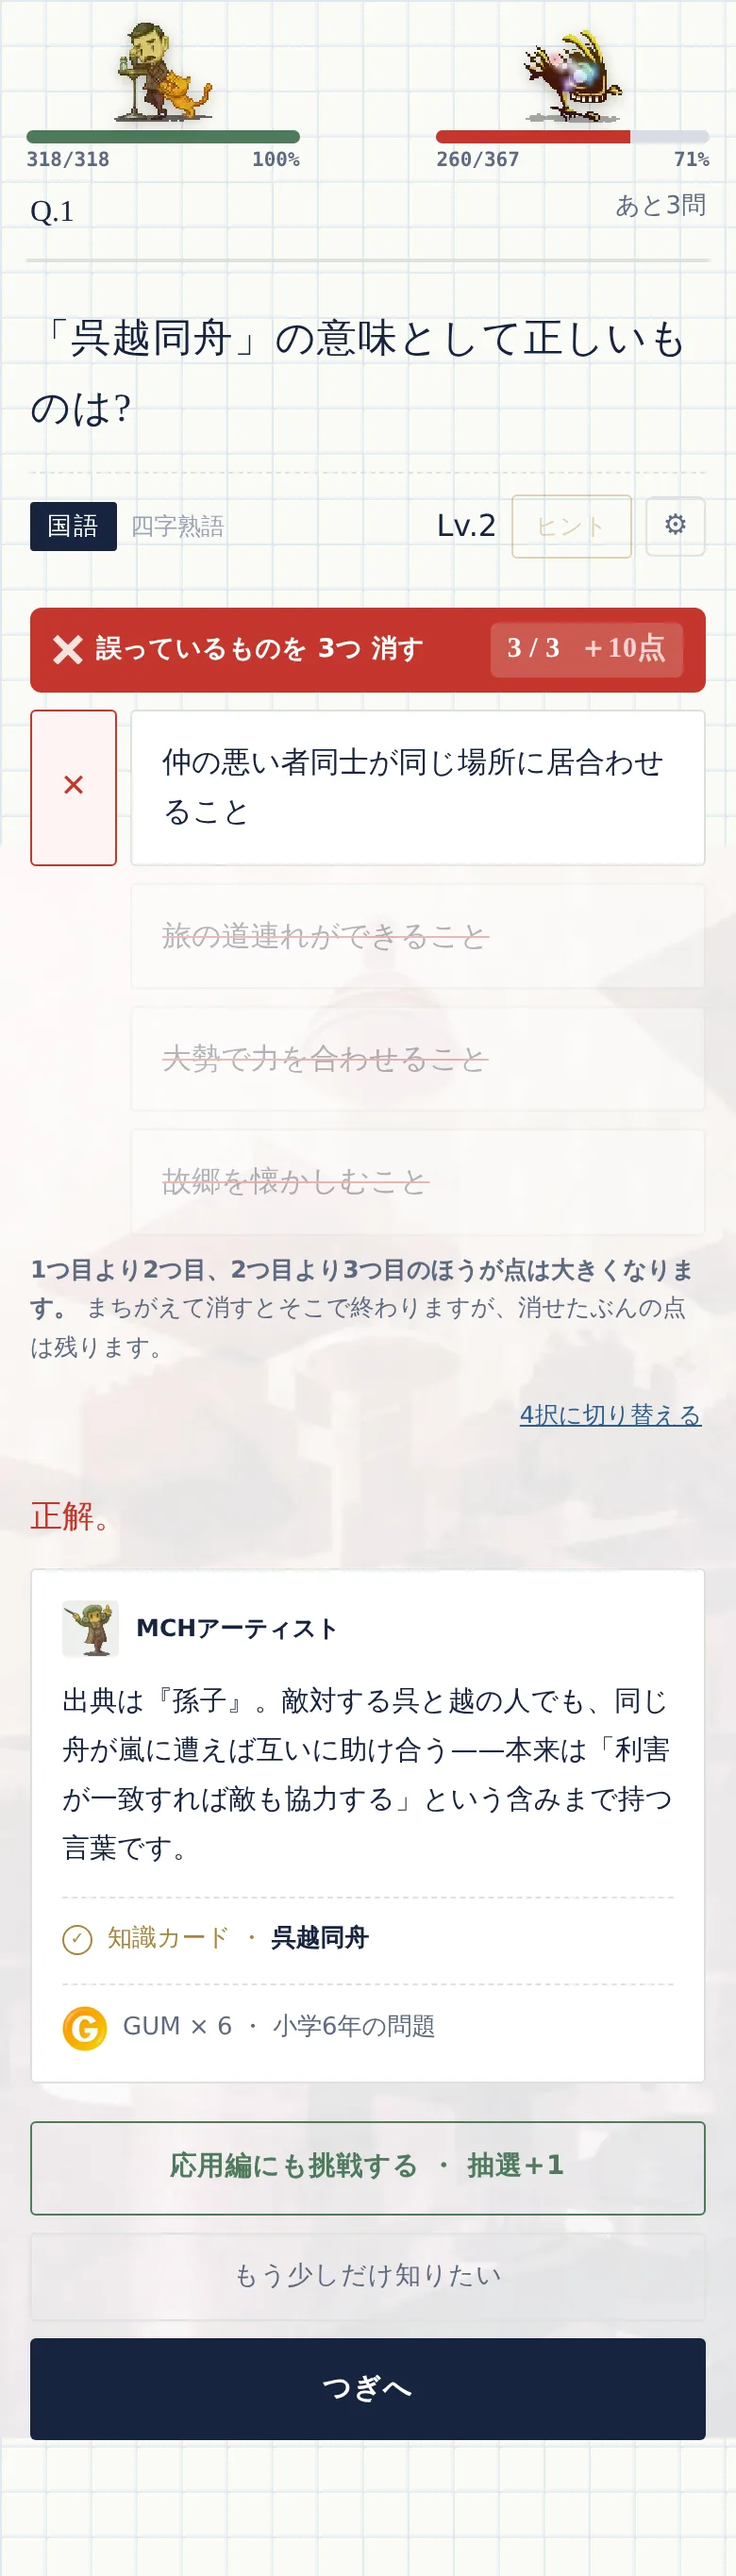
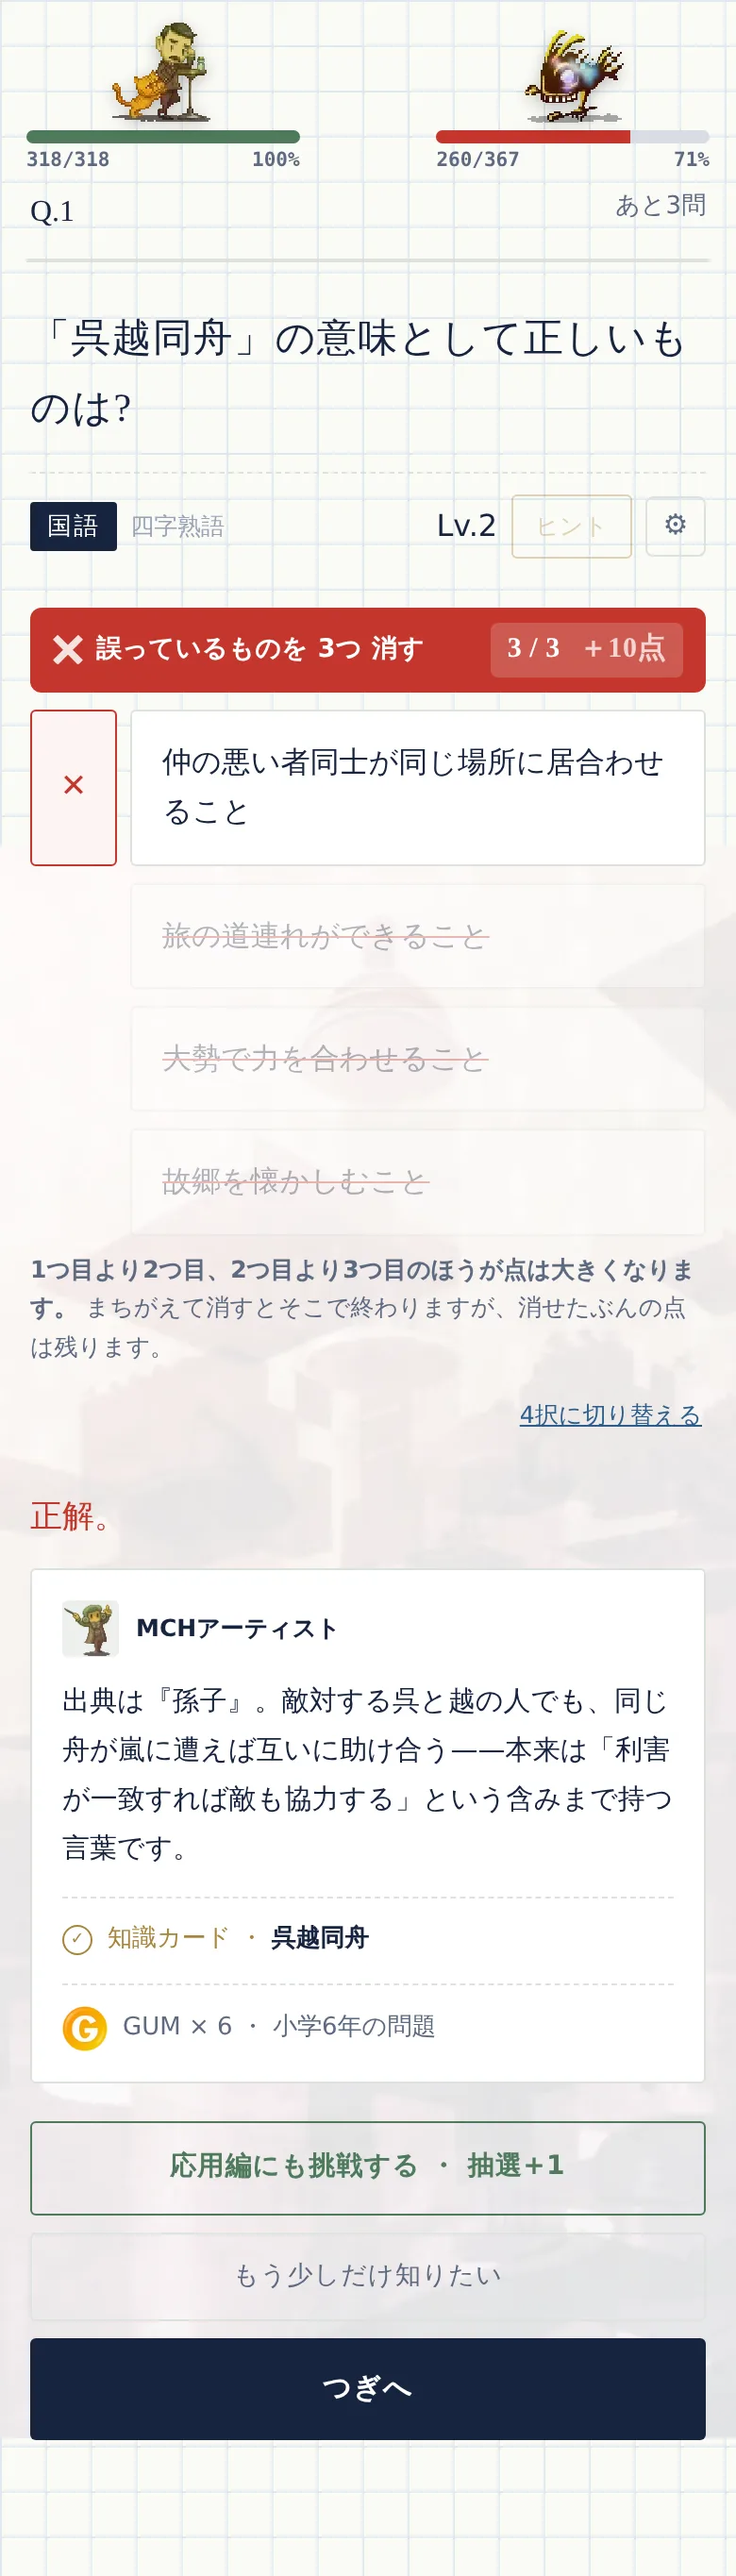
バトル層の英雄と敵を向かい合わせる
MCH の絵は英雄も敵も左を向いているので、並べると2体とも同じほうを見て
いました。左に立つ英雄のほうを左右反転させて、正面から向き合うように
しました（敵を反転させると外を向きます）。

跳ねる演出と倒れる姿勢にも反転を入れてあります。transform は最後に書いた
ものだけが効くので、コマごとに scaleX(-1) を書き直しています。

validate ✓ / smoke 450 ✓ / touch-check 25 ✓

Claude-Session: https://claude.ai/code/session_01HQarYNyuWkC6NYJVcfcKzq

Changed region(s): [[0.7077, 0.0, 0.8615, 0.0623], [0.1538, 0.0, 0.2769, 0.0623]]

diff --git a/src/styles.css b/src/styles.css
@@ -956,16 +956,23 @@
   .bt-side{position:relative;flex:0 0 40%;display:flex;flex-direction:column;align-items:center;gap:3px}
   .bt-ch{width:56px;height:56px;image-rendering:pixelated;
     filter:drop-shadow(0 2px 4px rgba(0,0,0,.25));transition:transform .18s}
-  .bt-side.foe .bt-ch{transform:scaleX(-1)}
-  /* 当たったら、その側が一度だけ跳ねる */
+  /* **2体は向かい合わせます。** 英雄は左、敵は右に立ちます。MCH の絵は
+     どちらも**左を向いている**ので、そのまま並べると2体とも同じほうを
+     見ます。左に立つ英雄のほうを左右反転させると、正面から向き合います。
+     **反転するのは英雄側です**——敵を反転させると外を向きます */
+  .bt-side.hero .bt-ch{transform:scaleX(-1)}
+  /* 当たったら、その側が一度だけ跳ねる。**反転は跳ねているあいだも保ちます**
+     （`transform` は最後に書いたものだけが効くので、コマごとに書き直します） */
   .bt-side.hit .bt-ch{animation:btHit .34s ease-out}
   @keyframes btHit{0%{transform:translateX(0)}30%{transform:translateX(-7px)}
     60%{transform:translateX(5px)}100%{transform:translateX(0)}}
-  .bt-side.foe.hit .bt-ch{animation:btHitF .34s ease-out}
-  @keyframes btHitF{0%{transform:scaleX(-1) translateX(0)}30%{transform:scaleX(-1) translateX(-7px)}
+  .bt-side.hero.hit .bt-ch{animation:btHitM .34s ease-out}
+  @keyframes btHitM{0%{transform:scaleX(-1) translateX(0)}30%{transform:scaleX(-1) translateX(-7px)}
     60%{transform:scaleX(-1) translateX(5px)}100%{transform:scaleX(-1) translateX(0)}}
   /* 倒れているあいだは、灰色にして横たえる。**問題は続きます** */
   .bt-side.down .bt-ch{filter:grayscale(1) opacity(.5);transform:rotate(-78deg)}
+  /* 反転した側は、回す向きも逆にします（同じ向きに横たわって見えるように） */
+  .bt-side.hero.down .bt-ch{transform:scaleX(-1) rotate(78deg)}
 
   .bt-hp{width:100%;height:7px;background:#D8DCE4;border-radius:99px;overflow:hidden}
   .bt-hp i{display:block;height:100%;background:var(--moss);transition:width .35s}
@@ -1010,7 +1017,7 @@
   }
   @media (prefers-reduced-motion:reduce){
     .bt-fx{animation:none;background-position:50% 12.5%;opacity:.8}
-    .bt-side.hit .bt-ch,.bt-side.foe.hit .bt-ch{animation:none}
+    .bt-side.hit .bt-ch,.bt-side.hero.hit .bt-ch{animation:none}
   }
 
   /* wave の終わりに1度だけ出る知らせ。**倒しきったか、逃げられたか** */

diff --git a/docs/screens/index.html b/docs/screens/index.html
@@ -27,7 +27,7 @@ figcaption{padding:10px 13px 13px}
 @media (max-width:480px){main{padding:14px;gap:14px}}
 </style></head><body>
 <header><h1>画面の一覧 ・ 26 / 26 枚</h1>
-<p>2026-09-17 06:39 に <code>npm run shots</code> で撮ったもの。幅 390px（iPhone相当）の実機ブラウザーです。
+<p>2026-09-17 06:55 に <code>npm run shots</code> で撮ったもの。幅 390px（iPhone相当）の実機ブラウザーです。
 絵を押すと原寸で開きます。<b>「S-06 の帯が…」のようにIDで指してください。</b>
 出題の画面には、撮ったときの設問IDも出しています。
 実機で見ているときは、URLの末尾に <code>#review</code> を付けると画面の隅に同じ番号が出ます。</p></header>
